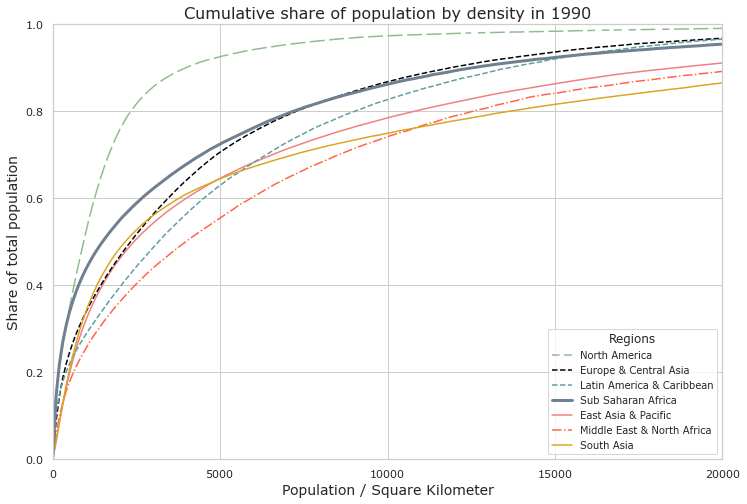
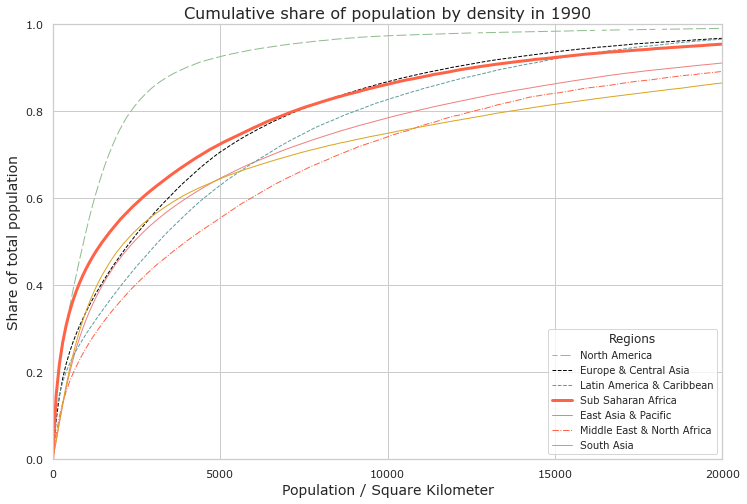
updated plot1b

diff --git a/reproduction_plots.py b/reproduction_plots.py
@@ -182,7 +182,6 @@ def plot1b(data1, data2, plot_title, output_file=None, x_value=98):
         output_file (str, optional): Path to save the output plot. If None, displays the plot.
     """
 
-    
     # Initialize the plot
     fig, ax = plt.subplots(figsize=(12, 8))
     
@@ -192,9 +191,11 @@ def plot1b(data1, data2, plot_title, output_file=None, x_value=98):
     common_columns = set(data1.columns).intersection(set(data2.columns))
 
     for i, col in enumerate(common_columns):
-        print(col)
-        dt1 = data2[data2[col] >= 0.65][col] * 100
-        dt2 = data1[col].loc[data2[data2[col] >= 0.65][col].index]
+        #print(col)
+        #dt1 = data2[data2[col] >= 0.65][col] * 100
+        #dt2 = data1[col].loc[data2[data2[col] >= 0.65][col].index]
+        dt1 = data2[col] * 100
+        dt2 = data1[col]
         dt1.dropna(inplace=True)
         dt2.dropna(inplace=True)
         line, = plt.plot(
